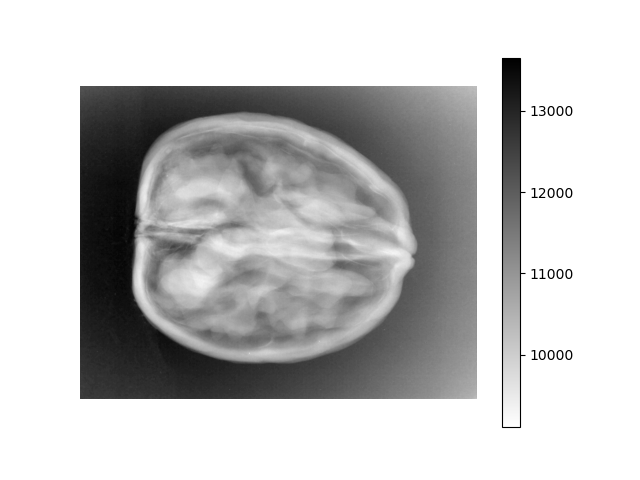
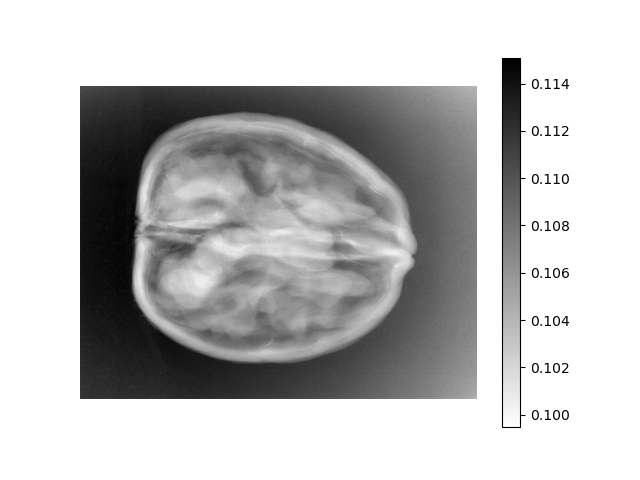
execute transformations, add concrete implementation

diff --git a/aomip/transform.py b/aomip/transform.py
@@ -1,0 +1,47 @@
+# !/usr/bin/env python
+# -*- coding: utf-8 -*-
+# ********************************** #
+# Author: kaanguney.keklikci@tum.de  #
+# Date: 01.05.2023                   #
+# ********************************** #
+
+import numpy as np
+import os
+import matplotlib.pyplot as plt
+
+def estimate_initial_density(image: np.ndarray, window: int = 10) -> float:
+    """
+    Estimates initial density.
+    :param:
+        image: np.ndarray of 2D image
+        window: small window size such that object is invisible
+    :return:
+        estimate: float, estimated initial density
+    """
+    pixels = image[:window, :window]
+    estimate = np.mean(pixels)
+    return estimate
+
+def transmission_to_absorption(x, IO) -> np.ndarray:
+    """
+    Takes an estimate and converts transmission image to absorption image.
+    :param:
+        x: np.ndarray of 2D image
+        I0: float, initial estimated density
+    :return:
+        absorption_image: np.ndarray of absorbed image
+    """
+    absorption_image = -I0 * np.log(x)
+    return absorption_image
+
+def absorption_to_transmission(x, IO) -> np.ndarray:
+    """
+    Takes an estimate and converts absorption image to transmission image.
+    :param:
+        x: np.ndarray of 2D image
+        I0: float, initial estimated density
+    :return:
+        transmission: np.ndarray of transmitted image
+    """
+    transmission_image = np.exp(-x) * I0
+    return transmission_image

diff --git a/homework/hw01/transform.py b/homework/hw01/transform.py
@@ -8,7 +8,6 @@
 import numpy as np
 import os
 import matplotlib.pyplot as plt
-from util.scaler import uint_mapper
 
 def estimate_initial_density(image: np.ndarray, window: int = 10) -> float:
     """
@@ -44,7 +43,7 @@ def absorption_to_transmission(x, IO) -> np.ndarray:
     :return:
         transmission: np.ndarray of transmitted image
     """
-    transmission_image = np.exp(-absorbance) * I0
+    transmission_image = np.exp(-x) * I0
     return transmission_image
 
 if __name__ == "__main__":
@@ -60,7 +59,6 @@ if __name__ == "__main__":
         image = plt.imread(filename)
         I0 = estimate_initial_density(image)
         absorption_image = transmission_to_absorption(image, I0)
-        transmission_image = transmission_to_absorption(absorption_image, I0)
         # save forward, i.e., transmission to absorption
         plt.axis("off")
         plt.imshow(absorption_image, cmap="binary")
@@ -70,8 +68,7 @@ if __name__ == "__main__":
         plt.close()
         # save inverse, i.e., absorption to transmission
         plt.axis("off")
-        # scale back to raw file format
-        transmission_image = uint_mapper(transmission_image)
+        transmission_image = absorption_to_transmission(absorption_image, I0)
         plt.imshow(transmission_image, cmap="binary")
         plt.colorbar()
         save_path = os.path.join(output_transmission_dir, f"000{tag + 1}_.png")
